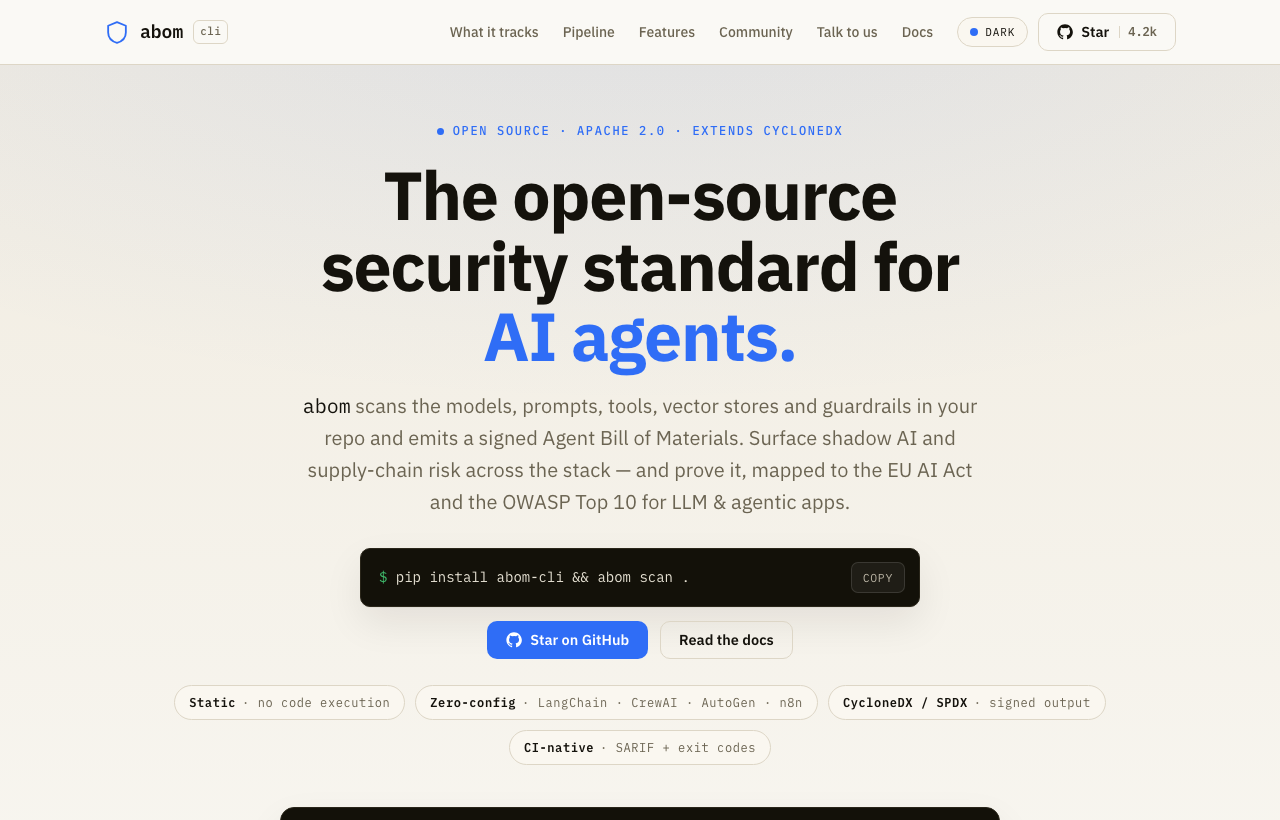
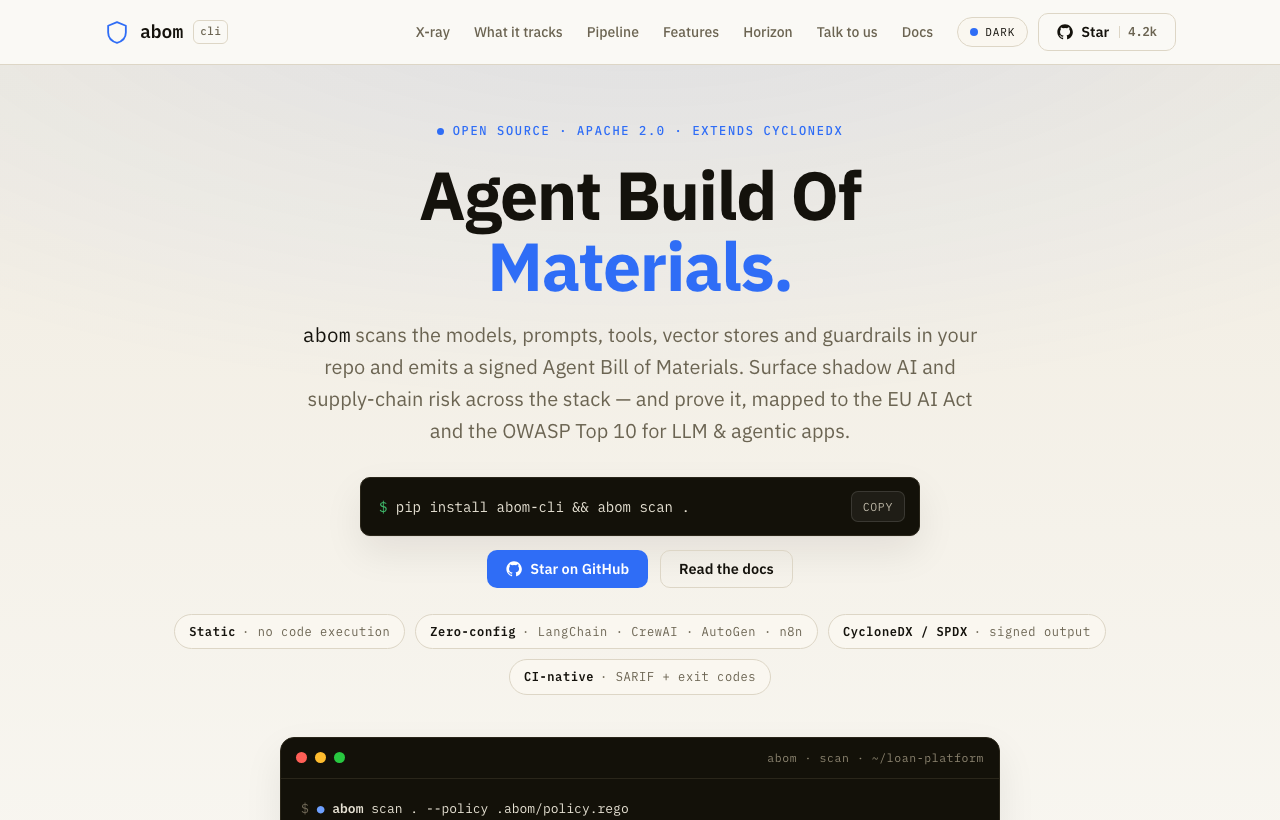
Remove details section from README and update screenshots

diff --git a/README.md b/README.md
@@ -4,12 +4,7 @@
 
 [![ABOM — abom.ai](website/screenshot-hero.png)](website/index.html)
 
-<details>
-<summary>Full-page preview</summary>
-
 [![ABOM website — full page](website/screenshot-full.png)](website/index.html)
-
-</details>
 
 ```sh
 pip install abom-cli && abom scan .